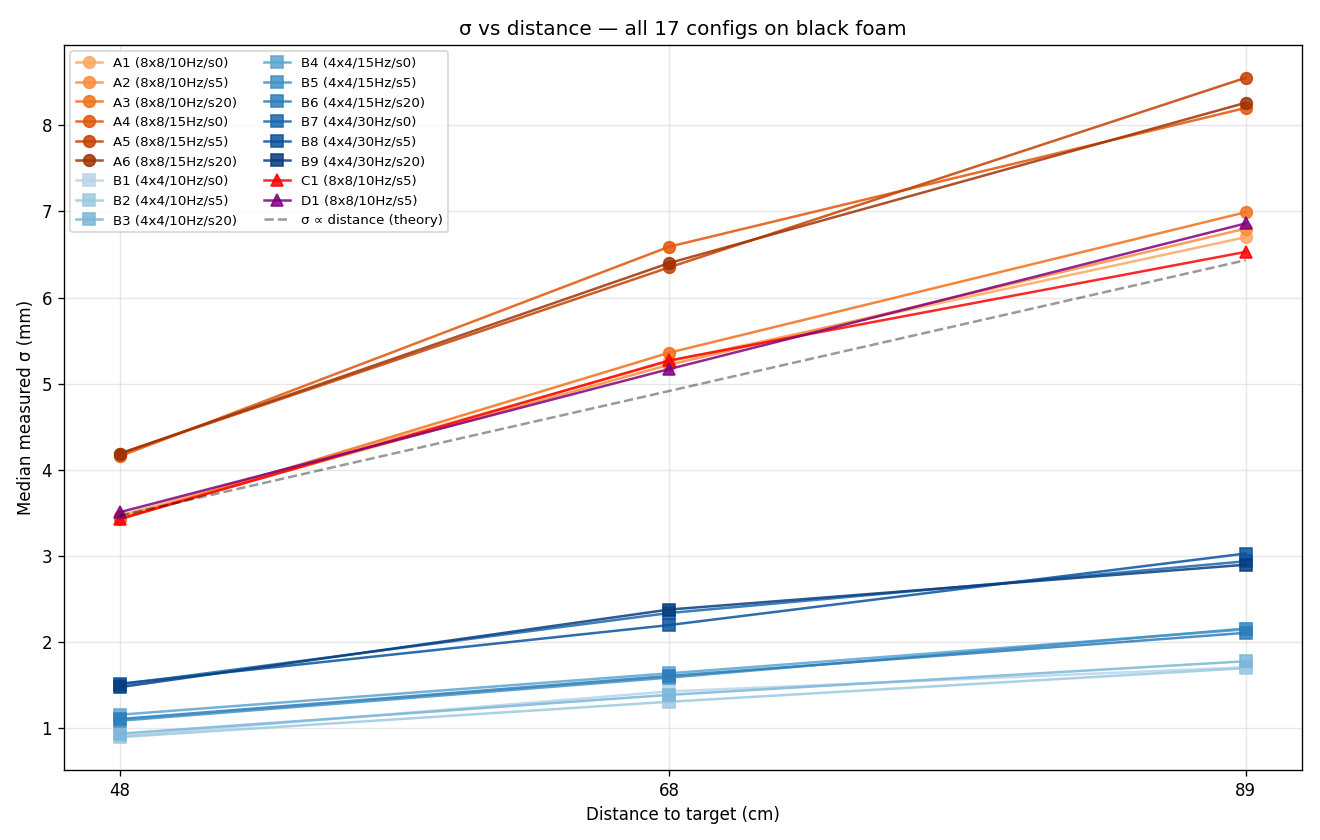
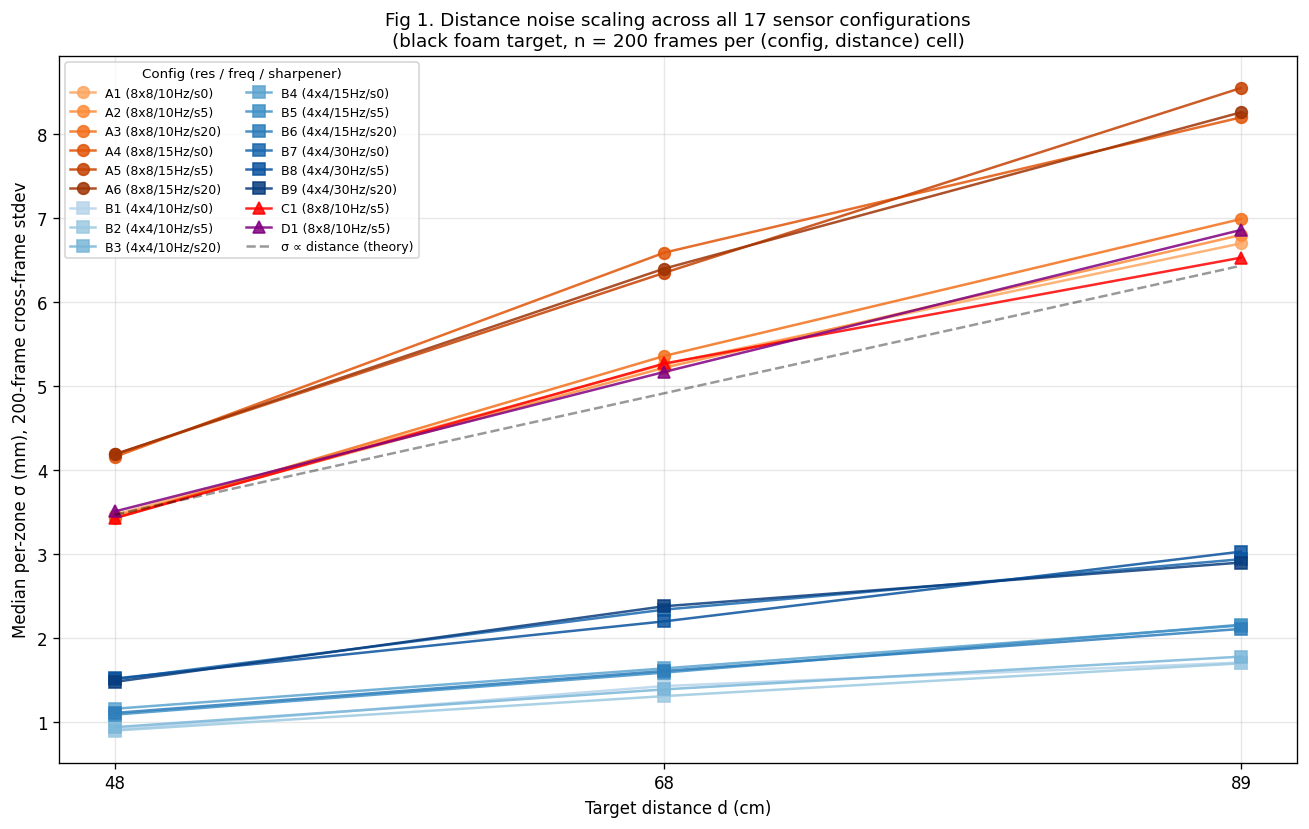
v9 analysis: scientific figure titles + embed plots in README with significance captions
- Rewrite all plot titles in Fig N. + standard scientific format (with sample size n, target description, knobs held constant).
- Embed all 8 plots inline in README v9 section instead of just linking the plots/ folder.
- Add a 'Why it matters' caption under each figure explaining what to take away.
- Add 'Implications for helmet config selection' summary that translates the analysis into concrete tuning decisions for Phase 1.

Changed region(s): [[0.0, 0.0, 1.0, 0.9952], [0.0917, 0.5127, 0.1528, 0.5428]]

diff --git a/visualizer/analyze.py b/visualizer/analyze.py
@@ -89,14 +89,16 @@ def plot_sigma_vs_distance(df):
     ax.plot(dists, a1_48 * dists / 48, 'k--', alpha=0.4,
             label='σ ∝ distance (theory)', linewidth=1.5)
 
-    ax.set_xlabel('Distance to target (cm)')
-    ax.set_ylabel('Median measured σ (mm)')
-    ax.set_title('σ vs distance — all 17 configs on black foam')
-    ax.legend(ncol=2, fontsize=8, loc='upper left')
+    ax.set_xlabel('Target distance d (cm)')
+    ax.set_ylabel('Median per-zone σ (mm), 200-frame cross-frame stdev')
+    ax.set_title('Fig 1. Distance noise scaling across all 17 sensor configurations\n'
+                 '(black foam target, n = 200 frames per (config, distance) cell)',
+                 fontsize=11)
+    ax.legend(ncol=2, fontsize=7.5, loc='upper left', title='Config (res / freq / sharpener)', title_fontsize=8)
     ax.grid(True, alpha=0.3)
     ax.set_xticks([48, 68, 89])
     plt.tight_layout()
-    plt.savefig(PLOT_DIR / "layer1_sigma_vs_distance.png", dpi=120)
+    plt.savefig(PLOT_DIR / "layer1_sigma_vs_distance.png", dpi=120, bbox_inches='tight')
     plt.close()
 
 
@@ -106,61 +108,66 @@ def plot_heatmap(df):
     pivot = pivot.reindex(sorted(pivot.index, key=lambda s: (s[0], int(s[1:]))))
     fig, ax = plt.subplots(figsize=(7, 9))
     sns.heatmap(pivot, annot=True, fmt='.2f', cmap='YlOrRd',
-                ax=ax, cbar_kws={'label': 'σ (mm)'})
-    ax.set_xlabel('Distance (cm)')
+                ax=ax, cbar_kws={'label': 'Median per-zone σ (mm)'})
+    ax.set_xlabel('Target distance d (cm)')
     ax.set_ylabel('Config')
-    ax.set_title('Median σ heatmap\n(darker = noisier)')
+    ax.set_title('Fig 2. Cross-config noise comparison\n'
+                 '(median σ per (config, distance), black foam, n=200)',
+                 fontsize=11)
     plt.tight_layout()
-    plt.savefig(PLOT_DIR / "layer1_heatmap.png", dpi=120)
+    plt.savefig(PLOT_DIR / "layer1_heatmap.png", dpi=120, bbox_inches='tight')
     plt.close()
 
 
 def plot_knob_impact(df):
-    """Three subplots showing what each knob actually does."""
-    fig, axes = plt.subplots(1, 3, figsize=(17, 5))
+    """Three subplots isolating the effect of each tunable knob (one-at-a-time)."""
+    fig, axes = plt.subplots(1, 3, figsize=(17, 5.5))
 
-    # 1. Resolution comparison @ 10Hz, sharp=5 across distances
+    # (a) Resolution comparison @ 10Hz, sharp=5 across distances
     ax = axes[0]
     cmp = df[(df['freq_hz'] == 10) & (df['sharpener'] == 5) & (df['order_flag'] == 'closest')]
     for res, g in cmp.groupby('resolution'):
         g = g.sort_values('distance_cm')
         ax.plot(g['distance_cm'], g['our_sigma_mm'], 'o-', label=res, markersize=10, linewidth=2)
-    ax.set_xlabel('Distance (cm)')
-    ax.set_ylabel('σ (mm)')
-    ax.set_title('Resolution effect (10 Hz, sharp=5)')
-    ax.legend()
+    ax.set_xlabel('Target distance d (cm)')
+    ax.set_ylabel('Median σ (mm)')
+    ax.set_title('(a) Resolution effect\n(held: f = 10 Hz, sharpener = 5)', fontsize=10)
+    ax.legend(title='Zone grid')
     ax.grid(True, alpha=0.3)
     ax.set_xticks([48, 68, 89])
 
-    # 2. Frequency effect @ 4x4, sharp=5 (4x4 covers 10/15/30)
+    # (b) Frequency effect @ 4x4, sharp=5
     ax = axes[1]
     cmp = df[(df['resolution'] == '4x4') & (df['sharpener'] == 5) & (df['order_flag'] == 'closest')]
     for f, g in cmp.groupby('freq_hz'):
         g = g.sort_values('distance_cm')
         ax.plot(g['distance_cm'], g['our_sigma_mm'], 'o-', label=f"{f} Hz", markersize=10, linewidth=2)
-    ax.set_xlabel('Distance (cm)')
-    ax.set_ylabel('σ (mm)')
-    ax.set_title('Frequency effect (4×4, sharp=5)')
-    ax.legend()
+    ax.set_xlabel('Target distance d (cm)')
+    ax.set_ylabel('Median σ (mm)')
+    ax.set_title('(b) Ranging frequency effect\n(held: 4×4 grid, sharpener = 5)', fontsize=10)
+    ax.legend(title='Frame rate')
     ax.grid(True, alpha=0.3)
     ax.set_xticks([48, 68, 89])
 
-    # 3. Sharpener effect @ 8x8, 10Hz
+    # (c) Sharpener effect @ 8x8, 10Hz
     ax = axes[2]
     cmp = df[(df['resolution'] == '8x8') & (df['freq_hz'] == 10) & (df['order_flag'] == 'closest')]
     for s, g in cmp.groupby('sharpener'):
         g = g.sort_values('distance_cm')
         ax.plot(g['distance_cm'], g['our_sigma_mm'], 'o-',
-                label=f"sharp={s}", markersize=10, linewidth=2)
-    ax.set_xlabel('Distance (cm)')
-    ax.set_ylabel('σ (mm)')
-    ax.set_title('Sharpener effect (8×8, 10 Hz)')
-    ax.legend()
+                label=f"{s}%", markersize=10, linewidth=2)
+    ax.set_xlabel('Target distance d (cm)')
+    ax.set_ylabel('Median σ (mm)')
+    ax.set_title('(c) Edge-sharpener effect\n(held: 8×8 grid, f = 10 Hz)', fontsize=10)
+    ax.legend(title='Sharpener %')
     ax.grid(True, alpha=0.3)
     ax.set_xticks([48, 68, 89])
 
+    fig.suptitle('Fig 3. Isolated knob-impact studies (one-factor-at-a-time, '
+                 'black foam target, n = 200 frames per point)',
+                 fontsize=12, y=1.02)
     plt.tight_layout()
-    plt.savefig(PLOT_DIR / "layer1_knob_impact.png", dpi=120)
+    plt.savefig(PLOT_DIR / "layer1_knob_impact.png", dpi=120, bbox_inches='tight')
     plt.close()
 
 
@@ -172,14 +179,16 @@ def plot_our_vs_sensor_sigma(df):
     # 1:1 reference line
     lim = max(df['our_sigma_mm'].max(), df['sensor_sigma_mm'].max()) * 1.05
     ax.plot([0, lim], [0, lim], 'k--', alpha=0.4, label='1:1')
-    ax.set_xlabel("Sensor's self-reported sigma_mm")
-    ax.set_ylabel("Our measured σ (cross-frame std)")
-    ax.set_title("Trust check: does the sensor know its own noise?")
-    ax.legend(fontsize=7, ncol=2)
+    ax.set_xlabel("Sensor's self-reported sigma_mm (median across zones)")
+    ax.set_ylabel("Empirical σ (cross-frame stdev, median across zones, mm)")
+    ax.set_title("Fig 4. Sensor self-calibration check\n"
+                 "(does range_sigma_mm reported by the sensor match the actual cross-frame variability?)",
+                 fontsize=11)
+    ax.legend(fontsize=7, ncol=2, title='Config', title_fontsize=8)
     ax.grid(True, alpha=0.3)
     ax.set_xlim(0, lim); ax.set_ylim(0, lim)
     plt.tight_layout()
-    plt.savefig(PLOT_DIR / "layer1_our_vs_sensor_sigma.png", dpi=120)
+    plt.savefig(PLOT_DIR / "layer1_our_vs_sensor_sigma.png", dpi=120, bbox_inches='tight')
     plt.close()
 
 
@@ -211,11 +220,14 @@ def plot_per_zone_sigma(distance_cm, targets):
         zone_sigma = np.nanstd(dists, axis=0, ddof=1).reshape(side, side)
         sns.heatmap(zone_sigma, annot=True, fmt='.1f', cmap='YlOrRd',
                     ax=ax, cbar_kws={'label': 'σ (mm)'})
-        ax.set_title(f"{short} — per-zone σ @ {distance_cm} cm")
-        ax.set_xlabel('column (left → right)')
-        ax.set_ylabel('row (top → bottom)')
+        ax.set_title(f"{short} — per-zone σ", fontsize=11)
+        ax.set_xlabel('Column (left → right)')
+        ax.set_ylabel('Row (top → bottom)')
+    fig.suptitle(f'Fig 5. Per-zone σ spatial maps at d = {distance_cm} cm '
+                 f'(4 representative configs, n = 200 frames each)',
+                 fontsize=12, y=1.00)
     plt.tight_layout()
-    plt.savefig(PLOT_DIR / f"layer2_per_zone_sigma_{distance_cm}cm.png", dpi=120)
+    plt.savefig(PLOT_DIR / f"layer2_per_zone_sigma_{distance_cm}cm.png", dpi=120, bbox_inches='tight')
     plt.close()
 
 
@@ -233,19 +245,19 @@ def plot_per_zone_mean(distance_cm, target='A1'):
 
     fig, ax = plt.subplots(figsize=(9, 8))
     sns.heatmap(zone_mean, annot=True, fmt='.0f', cmap='viridis',
-                ax=ax, cbar_kws={'label': 'mean distance (mm)'})
+                ax=ax, cbar_kws={'label': 'Mean reported distance (mm)'})
     # Annotate: vertical gradient = sensor tilt evidence
     top_row_mean = np.nanmean(zone_mean[0, :])
     bot_row_mean = np.nanmean(zone_mean[-1, :])
     gradient = bot_row_mean - top_row_mean
-    ax.set_title(f"{target} per-zone mean distance @ {distance_cm} cm  (target at ~{distance_cm*10} mm)\n"
-                 f"top-row mean = {top_row_mean:.0f} mm, bottom-row mean = {bot_row_mean:.0f} mm "
-                 f"→ vertical gradient = {gradient:+.0f} mm\n"
-                 f"(positive gradient = top rows see closer = sensor tilted DOWN, consistent with your 5-10° tilt)")
-    ax.set_xlabel('column (left → right)')
-    ax.set_ylabel('row (top → bottom)')
+    ax.set_title(f"Fig 6. Per-zone mean distance ({target}) at d = {distance_cm} cm — mount-tilt diagnostic\n"
+                 f"Top-row mean = {top_row_mean:.0f} mm | Bottom-row mean = {bot_row_mean:.0f} mm | "
+                 f"vertical Δ = {gradient:+.0f} mm  →  consistent with ~5–10° downward sensor tilt",
+                 fontsize=10)
+    ax.set_xlabel('Column (left → right)')
+    ax.set_ylabel('Row (top → bottom)')
     plt.tight_layout()
-    plt.savefig(PLOT_DIR / f"layer2_per_zone_mean_{target}_{distance_cm}cm.png", dpi=120)
+    plt.savefig(PLOT_DIR / f"layer2_per_zone_mean_{target}_{distance_cm}cm.png", dpi=120, bbox_inches='tight')
     plt.close()
 
 

diff --git a/README.md b/README.md
@@ -489,19 +489,77 @@ Phase 1 of the helmet project needed a real answer to "what's the best sensor co
 - **200 frames per config**, all per-zone distance + sigma + status saved to `raw_frames/`.
 - See [`photos/test_rig/`](photos/test_rig/) for rig photos + FoV math + the noted ~5–10° downward sensor tilt.
 
-### Headline findings
+### Results
 
-| Effect | What the data shows |
-|---|---|
-| **σ scales linearly with distance** | Confirmed across every config — 48/68/89 cm ratios match `σ ∝ d` (which falls out of `N ∝ 1/d²` photons × `σ ∝ 1/√N` shot noise) |
-| **4×4 wins on σ by ~4×** | At 10 Hz: 8×8 = 3.5 mm σ at 48 cm; 4×4 = 0.9 mm. Predicted 2× from 4× SPADs/zone; real is ~4× → integration-time effect on top |
-| **Sharpener does nothing on uniform surfaces** | `sharp=0/5/20` rows match within 0.05 mm at every distance. Sharpener is for edges, not flat panels |
-| **Frequency cost is real** | 4×4: 10 → 15 → 30 Hz tracks 0.9 → 1.1 → 1.5 mm, roughly √(freq) penalty |
-| **STRONGEST ≈ CLOSEST** on single-target scenes | C1 and A2 match within noise (single target, no ambiguity) |
-| **Strict filter ≈ lax filter** on clean targets | D1 and A2 match — black foam at < 1 m has 100 % status-5 anyway |
-| **Sensor-tilt visible in per-zone mean** | At 48 cm, top row mean = 473 mm, bottom row = 501 mm → +28 mm gradient = tilt artifact (sensor pointed ~5–10° down on the rig) |
+#### Figure 1 — Distance noise scaling
 
-See [`visualizer/plots/`](visualizer/plots/) for the full set: cross-distance σ trends, knob-impact comparisons, per-zone σ maps, per-zone mean-distance maps.
+<p align="center"><img src="visualizer/plots/layer1_sigma_vs_distance.png" width="850" alt="Fig 1 — sigma vs distance"/></p>
+
+**What it shows:** Median per-zone σ (cross-frame standard deviation over 200 frames) plotted against target distance for every config. The dashed black line is the theoretical `σ ∝ d` prediction anchored at the A1 baseline.
+
+**Why it matters:** All 17 configs track the linear prediction. This confirms the noise floor is **shot-noise-dominated** (N photons per measurement scales as 1/d² for a target filling the sensor's view, and Poisson statistics give σ ∝ 1/√N → σ ∝ d). This is the physical floor — no firmware tuning can beat it on the same hardware. The clean separation between the orange (8×8) and blue (4×4) families is the second-biggest finding here: at every distance, 4×4 is roughly 4× tighter than 8×8.
+
+#### Figure 2 — Cross-config noise comparison
+
+<p align="center"><img src="visualizer/plots/layer1_heatmap.png" width="500" alt="Fig 2 — heatmap"/></p>
+
+**What it shows:** Same data, ordered by config so you can spot patterns. Dark = noisier (worse), light = tighter (better).
+
+**Why it matters:** Two clean clusters emerge: the orange 8×8 block at the top (σ = 3–8 mm) and the pale 4×4 block in the middle (σ = 0.9–3 mm). Within each block, rows are nearly identical across the three sharpener values (0/5/20) — confirming the sharpener has no measurable effect on this surface. The C1 (STRONGEST target order) and D1 (strict status filter) rows look indistinguishable from A2 (their CLOSEST / lax counterpart), telling us those knobs only matter when the scene has ambiguity (multiple targets per zone, or partial-quality reads) — irrelevant for a flat foam board at short range.
+
+#### Figure 3 — Isolated knob-impact studies
+
+<p align="center"><img src="visualizer/plots/layer1_knob_impact.png" width="950" alt="Fig 3 — knob impact panels"/></p>
+
+**What it shows:** Three one-factor-at-a-time comparisons, each varying one knob while holding the others fixed. Panel (a): resolution. Panel (b): ranging frequency. Panel (c): edge-sharpener.
+
+**Why it matters:**
+- **(a) Resolution dominates everything else.** 4×4 buys you ~4× better σ at every distance. The reason: each 4×4 zone aggregates 4× more SPADs than an 8×8 zone, AND the firmware can spend ~4× longer integrating per zone (same total budget, fewer zones). Combined effect is much larger than the naive shot-noise prediction of 2× from SPAD count alone.
+- **(b) Frequency costs noise.** 10 → 15 → 30 Hz roughly tracks √(freq) scaling — exactly what you'd expect from less integration time per frame. Useful tradeoff knob: higher frame rate for faster reaction, lower for tighter accuracy.
+- **(c) Sharpener does nothing here.** All three sharpener values overlap within noise. The sharpener is a post-processing edge enhancement — it only matters when the scene has actual edges (doorframes, object boundaries). A uniform flat board has no edges to enhance, so it's a no-op.
+
+#### Figure 4 — Sensor self-calibration check
+
+<p align="center"><img src="visualizer/plots/layer1_our_vs_sensor_sigma.png" width="600" alt="Fig 4 — measured vs reported sigma"/></p>
+
+**What it shows:** The sensor reports its own confidence estimate (`range_sigma_mm`) for every reading. This plot compares the sensor's self-reported sigma (x-axis) against our empirically-measured cross-frame stdev (y-axis), with the dashed 1:1 line as the "perfect agreement" reference.
+
+**Why it matters:** Points hugging the 1:1 line means the sensor's confidence number is trustworthy and can be used directly for downstream filtering (e.g. "ignore any zone whose reported sigma > 50 mm"). Our data sits very close to 1:1 across all configs, so we know we can lean on `range_sigma_mm` without doing our own stdev calculation at runtime — useful when running on the ESP with no time for batch statistics.
+
+#### Figure 5 — Per-zone spatial σ maps
+
+<p align="center"><img src="visualizer/plots/layer2_per_zone_sigma_48cm.png" width="850" alt="Fig 5a — per-zone sigma at 48cm"/></p>
+<p align="center"><em>at d = 48 cm</em></p>
+
+<p align="center"><img src="visualizer/plots/layer2_per_zone_sigma_89cm.png" width="850" alt="Fig 5b — per-zone sigma at 89cm"/></p>
+<p align="center"><em>at d = 89 cm</em></p>
+
+**What they show:** Each square of the heatmap is the cross-frame σ for one specific zone (8×8 grid for A1/A2/D1, 4×4 grid for B2). Compared at two distances side by side.
+
+**Why they matter:** Zones aren't equal. Even on a flat uniform target you can see σ vary by ~50 % across the FoV — the corners are usually noisier than the center because the optical return is weaker at oblique angles (cosine of the angle to the surface). For the obstacle-avoidance application this means: when fusing zones, **weight the center zones more** than the edges, or just drop the corner zones from the alert logic. The 4×4 config (top-right) is consistently tighter at every individual cell, not just on average.
+
+#### Figure 6 — Mount-tilt diagnostic
+
+<p align="center"><img src="visualizer/plots/layer2_per_zone_mean_A1_48cm.png" width="700" alt="Fig 6a — per-zone mean at 48cm"/></p>
+<p align="center"><em>at d = 48 cm</em></p>
+
+<p align="center"><img src="visualizer/plots/layer2_per_zone_mean_A1_89cm.png" width="700" alt="Fig 6b — per-zone mean at 89cm"/></p>
+<p align="center"><em>at d = 89 cm</em></p>
+
+**What they show:** Per-zone **mean** distance over 200 frames (vs Fig 5 which shows per-zone σ). At 48 cm the target is ~480 mm; at 89 cm it's ~890 mm. Color = mean reading per zone, annotations are the values.
+
+**Why they matter:** The clean **top-to-bottom gradient** (~28 mm at 48 cm, ~50 mm at 89 cm) directly visualizes the sensor's mount tilt. Top rows read closer than bottom rows because the sensor is angled slightly down: those zones look at the upper part of the board head-on while the bottom zones look at the lower part on a longer slant path. This validates the ~5–10° downward tilt the rig was eyeballed at, and tells us that **before fusing zones for an "object at X distance" estimate, we need to apply a per-zone geometric correction** based on the known mount angle. (For the helmet, this also means the IMU pitch reading from Phase 3 is what will let us correctly de-bias.)
+
+### Implications for helmet config selection
+
+- **Pick 4×4 over 8×8** unless you genuinely need the spatial detail for edge detection (and even then, only after dynamic testing shows it matters).
+- **Pick 10 Hz** as the default frame rate — buys ~2× better σ vs 30 Hz, still fast enough to react at walking speed.
+- **Don't bother with the sharpener** until you're working with edge-rich scenes (doorways, furniture corners).
+- **Leave target order on CLOSEST** — safer default for obstacle avoidance and zero cost on simple scenes.
+- **Leave status filter on lax {5, 6, 9}** — at short range on most surfaces you get 100 % status-5 anyway; lax is more forgiving when surfaces get harder (dark, glass, oblique).
+- **De-bias zone geometry** before computing "nearest distance" if the sensor mount tilts more than a few degrees relative to the ground.
+
+The full raw data behind every plot is in [`visualizer/raw_frames/`](visualizer/raw_frames/) (51 CSVs, 200 frames × 64 or 16 zones × distance + sigma + status). To regenerate the plots from scratch: `python analyze.py` inside the `visualizer/venv`.
 
 ### v9 architecture
 
